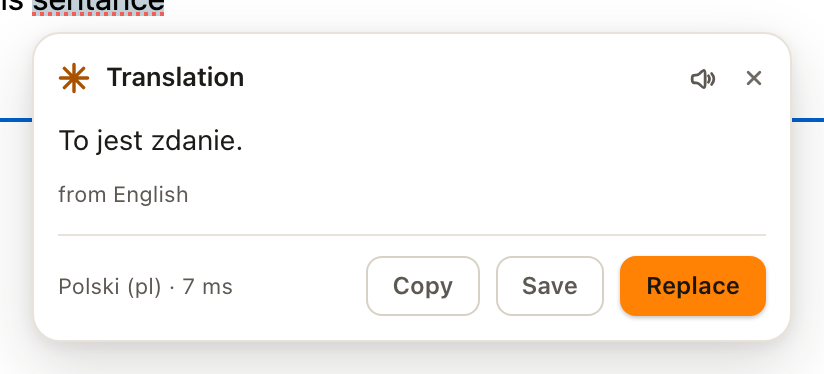
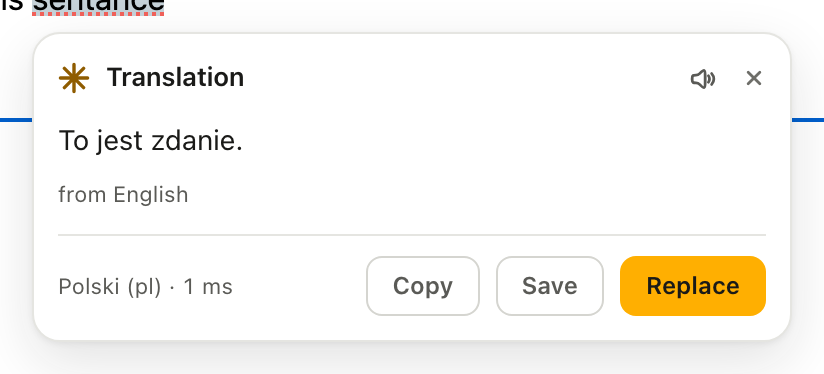
Gold accent, neutral surfaces, flatter controls
Accent moves to #ffaf01. White on it is 1.8:1, so accent surfaces keep
the gold and carry ink labels (9.4:1); accent text darkens to #8f5c00 on
white. The greys lose their warm cast — a warm ground plus a warm accent
reads as someone else's brand, and neutral lets the gold be the only
colour in the room.

Depth is now a single token: only the floating card has a shadow.
Primary buttons, switch knobs, segmented tiles and slider thumbs are flat,
and primary hover is a fill shift instead of a glow.

- tokens, cards, vocab page, popup, toolbar icon re-rendered
- contrast test updated for the gold (27 pairs)
- screenshots refreshed; suite green (232 checks)

Changed region(s): [[0.7282, 0.6765, 0.9405, 0.8529], [0.0607, 0.1765, 0.1214, 0.2353], [0.2124, 0.7353, 0.2427, 0.7941]]

diff --git a/shared/tokens.css b/shared/tokens.css
@@ -9,33 +9,34 @@
 
 :root,
 .ww-tokens {
-  /* brand — #ff8204 is the identity. White text on it is only 2.5:1, so an
-     accent *surface* carries ink instead (7.2:1), and accent *text* darkens
-     on the light ground. Both rules are asserted in contrast.test.mjs. */
-  --ww-accent: #ff8204;
-  --ww-accent-hi: #ff8204; /* filled surfaces: buttons, switch tracks */
-  --ww-accent-ink: #1b1611; /* label/mark/knob on an accent surface */
-  --ww-accent-soft: rgba(255, 130, 4, 0.14);
-  --ww-accent-text: #ff8204;
+  /* Brand — #ffaf01 is the identity. White text on it is 1.8:1, so an accent
+     *surface* carries ink instead (9.4:1), and accent *text* darkens on the
+     light ground. Every rule here is asserted in contrast.test.mjs. */
+  --ww-accent: #ffaf01;
+  --ww-accent-hi: #ffaf01; /* filled surfaces: buttons, switch tracks */
+  --ww-accent-ink: #1a1a18; /* label/mark/knob on an accent surface */
+  --ww-accent-soft: rgba(255, 175, 1, 0.14);
+  --ww-accent-text: #ffaf01;
   --ww-jade: #5cb87a;
   --ww-jade-soft: rgba(92, 184, 122, 0.15);
   --ww-danger: #e27d79;
   --ww-danger-soft: rgba(217, 83, 79, 0.15);
   --ww-amber: #e0a33a;
-  --ww-focus: #ff8204; /* 7.4:1 on the dark ground */
+  --ww-focus: #ffaf01; /* 10:1 on the dark ground */
   /* the knob is ink once the track turns accent; the track carries the state */
-  --ww-switch-thumb: #1b1611;
+  --ww-switch-thumb: #1a1a18;
 
-  /* surfaces — dark */
-  --ww-bg: #0c0c0b;
-  --ww-surface: #141413;
-  --ww-surface-2: #1c1c1a;
-  --ww-surface-3: #24231f;
-  --ww-border: #262521;
-  --ww-border-2: #33322c;
-  --ww-tx: #f2ede6;
-  --ww-tx-2: #aeaaa3;
-  --ww-tx-3: #8c8882;
+  /* Surfaces — neutral on purpose. A warm-grey ground plus a warm accent reads
+     like someone else's brand; neutral lets the gold be the only voice. */
+  --ww-bg: #0a0a0a;
+  --ww-surface: #131313;
+  --ww-surface-2: #1b1b1b;
+  --ww-surface-3: #232323;
+  --ww-border: #262626;
+  --ww-border-2: #343434;
+  --ww-tx: #f2f2f0;
+  --ww-tx-2: #aeaeaa;
+  --ww-tx-3: #8d8d89;
 
   /* type */
   --ww-font: -apple-system, BlinkMacSystemFont, "Segoe UI", Roboto,
@@ -67,9 +68,9 @@
   --ww-control-h: 32px;
   --ww-touch-h: 36px;
 
-  /* depth + motion */
-  --ww-shadow: 0 12px 32px rgba(0, 0, 0, 0.42), 0 2px 8px rgba(0, 0, 0, 0.28);
-  --ww-shadow-sm: 0 1px 2px rgba(0, 0, 0, 0.28);
+  /* depth + motion — one depth, for the floating card only. Controls are flat:
+     a button that floats reads as a different material from the field it sits in. */
+  --ww-shadow: 0 10px 28px rgba(0, 0, 0, 0.38), 0 1px 3px rgba(0, 0, 0, 0.24);
   --ww-ease: cubic-bezier(0.2, 0.8, 0.2, 1);
   --ww-dur: 140ms;
   --ww-dur-slow: 200ms;
@@ -80,65 +81,62 @@
 @media (prefers-color-scheme: light) {
   :root,
   .ww-tokens {
-    --ww-bg: #faf7f2;
+    --ww-bg: #f6f6f4;
     --ww-surface: #ffffff;
-    --ww-surface-2: #f4efe7;
-    --ww-surface-3: #e9e3d8;
-    --ww-border: #e8e2d9;
-    --ww-border-2: #d8d1c5;
-    --ww-tx: #1d1b18;
-    --ww-tx-2: #5c5852;
-    --ww-tx-3: #6f6a64;
+    --ww-surface-2: #f0f0ee;
+    --ww-surface-3: #e6e6e2;
+    --ww-border: #e5e5e1;
+    --ww-border-2: #d5d5d0;
+    --ww-tx: #1a1a18;
+    --ww-tx-2: #5a5a56;
+    --ww-tx-3: #6e6e69;
     --ww-jade: #2a7448;
     --ww-danger: #b3261e;
-    --ww-accent: #c25f00; /* graphics on white need ≥ 3:1 */
-    --ww-accent-soft: rgba(255, 130, 4, 0.12);
-    --ww-accent-text: #a95200; /* 5.4:1 on white, 5.0:1 on paper */
-    --ww-focus: #a95200;
-    --ww-shadow: 0 12px 32px rgba(35, 30, 22, 0.16), 0 2px 8px rgba(35, 30, 22, 0.08);
-    --ww-shadow-sm: 0 1px 2px rgba(35, 30, 22, 0.08);
+    --ww-accent: #b57a00; /* graphics on white need ≥ 3:1 */
+    --ww-accent-soft: rgba(255, 175, 1, 0.12);
+    --ww-accent-text: #8f5c00; /* 5.7:1 on white, 5.2:1 on the ground */
+    --ww-focus: #8f5c00;
+    --ww-shadow: 0 10px 28px rgba(24, 24, 22, 0.12), 0 1px 3px rgba(24, 24, 22, 0.06);
     color-scheme: light;
   }
 }
 
 :root[data-theme="dark"],
 .ww-tokens[data-theme="dark"] {
-  --ww-bg: #0c0c0b;
-  --ww-surface: #141413;
-  --ww-surface-2: #1c1c1a;
-  --ww-surface-3: #24231f;
-  --ww-border: #262521;
-  --ww-border-2: #33322c;
-  --ww-tx: #f2ede6;
-  --ww-tx-2: #aeaaa3;
-  --ww-tx-3: #8c8882;
-  --ww-accent: #ff8204;
-  --ww-accent-soft: rgba(255, 130, 4, 0.14);
-  --ww-accent-text: #ff8204;
-  --ww-focus: #ff8204;
-  --ww-shadow: 0 12px 32px rgba(0, 0, 0, 0.42), 0 2px 8px rgba(0, 0, 0, 0.28);
-  --ww-shadow-sm: 0 1px 2px rgba(0, 0, 0, 0.28);
+  --ww-bg: #0a0a0a;
+  --ww-surface: #131313;
+  --ww-surface-2: #1b1b1b;
+  --ww-surface-3: #232323;
+  --ww-border: #262626;
+  --ww-border-2: #343434;
+  --ww-tx: #f2f2f0;
+  --ww-tx-2: #aeaeaa;
+  --ww-tx-3: #8d8d89;
+  --ww-accent: #ffaf01;
+  --ww-accent-soft: rgba(255, 175, 1, 0.14);
+  --ww-accent-text: #ffaf01;
+  --ww-focus: #ffaf01;
+  --ww-shadow: 0 10px 28px rgba(0, 0, 0, 0.38), 0 1px 3px rgba(0, 0, 0, 0.24);
   color-scheme: dark;
 }
 
 :root[data-theme="light"],
 .ww-tokens[data-theme="light"] {
-  --ww-bg: #faf7f2;
+  --ww-bg: #f6f6f4;
   --ww-surface: #ffffff;
-  --ww-surface-2: #f4efe7;
-  --ww-surface-3: #e9e3d8;
-  --ww-border: #e8e2d9;
-  --ww-border-2: #d8d1c5;
-  --ww-tx: #1d1b18;
-  --ww-tx-2: #5c5852;
-  --ww-tx-3: #6f6a64;
+  --ww-surface-2: #f0f0ee;
+  --ww-surface-3: #e6e6e2;
+  --ww-border: #e5e5e1;
+  --ww-border-2: #d5d5d0;
+  --ww-tx: #1a1a18;
+  --ww-tx-2: #5a5a56;
+  --ww-tx-3: #6e6e69;
   --ww-jade: #2a7448;
   --ww-danger: #b3261e;
-  --ww-accent: #c25f00;
-  --ww-accent-soft: rgba(255, 130, 4, 0.12);
-  --ww-accent-text: #a95200;
-  --ww-focus: #a95200;
-  --ww-shadow: 0 12px 32px rgba(35, 30, 22, 0.16), 0 2px 8px rgba(35, 30, 22, 0.08);
-  --ww-shadow-sm: 0 1px 2px rgba(35, 30, 22, 0.08);
+  --ww-accent: #b57a00;
+  --ww-accent-soft: rgba(255, 175, 1, 0.12);
+  --ww-accent-text: #8f5c00;
+  --ww-focus: #8f5c00;
+  --ww-shadow: 0 10px 28px rgba(24, 24, 22, 0.12), 0 1px 3px rgba(24, 24, 22, 0.06);
   color-scheme: light;
 }

diff --git a/content/ui.js b/content/ui.js
@@ -41,13 +41,13 @@
   const FALLBACK_CSS = [
     '.ww-tokens{position:absolute;top:0;left:0;display:block;color:#f2ede6;font:13px/1.5 -apple-system,BlinkMacSystemFont,"Segoe UI",Roboto,sans-serif;text-align:left;direction:ltr}',
     '.ww-card{display:flex;flex-direction:column;width:380px;max-width:calc(100vw - 16px);max-height:320px;padding:12px;background:#141413;color:#f2ede6;border:1px solid #262521;border-radius:14px;box-shadow:0 12px 32px rgba(0,0,0,.42);pointer-events:auto;overflow:hidden}',
-    '.ww-head{display:flex;align-items:center;gap:8px}', '.ww-mark{color:#ff8204;display:inline-flex}',
+    '.ww-head{display:flex;align-items:center;gap:8px}', '.ww-mark{color:#ffaf01;display:inline-flex}',
     '.ww-title{flex:1;min-width:0;font-weight:600;white-space:nowrap;overflow:hidden;text-overflow:ellipsis}',
     '.ww-x{width:24px;height:24px;border:0;background:none;color:#8c8882;cursor:pointer}',
     '.ww-body{flex:1;min-height:0;overflow:auto;margin-top:10px}', '.ww-foot{display:flex;gap:8px;align-items:center;margin-top:12px;padding-top:10px;border-top:1px solid #262521}',
     '.ww-meta{flex:1;min-width:0;font-size:11px;color:#aeaaa3;white-space:nowrap;overflow:hidden;text-overflow:ellipsis}',
     '.ww-btn{height:30px;padding:0 12px;border-radius:8px;font:600 12px/1 inherit;cursor:pointer;border:1px solid transparent;background:none;color:#f2ede6}',
-    '.ww-btn-ghost{color:#aeaaa3;border-color:#33322c}', '.ww-btn-primary{background:#ff8204;color:#1b1611}',
+    '.ww-btn-ghost{color:#aeaaa3;border-color:#33322c}', '.ww-btn-primary{background:#ffaf01;color:#1a1a18}',
     '.ww-ins{background:rgba(92,184,122,.15);color:#5cb87a;text-decoration:underline;text-decoration-color:#5cb87a}',
     '.ww-del{background:rgba(217,83,79,.15);color:#e27d79;text-decoration:line-through;text-decoration-color:#e27d79}',
     '.ww-sub,.ww-msg{margin:0;color:#aeaaa3}', '.ww-sr{position:absolute;width:1px;height:1px;overflow:hidden;clip:rect(0 0 0 0);white-space:nowrap}', '.ww-skel{height:8px;border-radius:4px;background:#24231f;margin:0 0 8px}',

diff --git a/popup/popup.css b/popup/popup.css
@@ -153,7 +153,6 @@ body.is-off .mark {
   height: 14px;
   background: var(--ww-tx-3);
   border-radius: 50%;
-  box-shadow: var(--ww-shadow-sm);
   pointer-events: none;
   transition:
     transform var(--ww-dur) var(--ww-ease),
@@ -274,7 +273,6 @@ body.is-off .mark {
   color: var(--ww-tx);
   background: var(--ww-surface);
   border-color: var(--ww-border-2);
-  box-shadow: var(--ww-shadow-sm);
 }
 
 /* ── setup card ─────────────────────────────────────────────── */
@@ -580,7 +578,6 @@ body.is-off .mark {
   background: var(--ww-surface);
   border: 1px solid var(--ww-border-2);
   border-radius: 50%;
-  box-shadow: var(--ww-shadow-sm);
   appearance: none;
   transition: transform var(--ww-dur) var(--ww-ease);
 }

diff --git a/content/ui.css b/content/ui.css
@@ -390,15 +390,14 @@
 }
 
 .ww-btn-primary {
-  /* accent surface + ink label = 7.2:1 — the orange stays the orange */
+  /* accent surface + ink label = 9.4:1 — the gold stays the gold.
+     Flat on purpose: no lift, no glow. The fill is the emphasis. */
   background: var(--ww-accent-hi);
   color: var(--ww-accent-ink);
-  box-shadow: 0 1px 2px rgba(0, 0, 0, 0.24);
 }
 
 .ww-btn-primary:hover {
-  background: var(--ww-accent-hi);
-  box-shadow: 0 2px 10px rgba(255, 130, 4, 0.34);
+  background: color-mix(in srgb, var(--ww-accent-hi) 92%, #000000);
 }
 
 /* ── motion preferences ───────────────────────────────────────────────── */

diff --git a/vocab/vocab.css b/vocab/vocab.css
@@ -329,7 +329,6 @@ button {
   color: var(--ww-tx);
   background: var(--ww-surface);
   border-color: var(--ww-border-2);
-  box-shadow: var(--ww-shadow-sm);
 }
 
 .seg-count {

diff --git a/DESIGN.md b/DESIGN.md
@@ -11,9 +11,9 @@ duration or font in a component file.
 
 | Token | Meaning |
 |---|---|
-| `--ww-accent` | the brand orange, `#ff8204`; marks, dots, focus, graphics. Darkens to `#c25f00` in light mode, where graphics sit on white |
-| `--ww-accent-hi` / `--ww-accent-ink` | accent **surfaces** (filled buttons, switch tracks) and the ink that goes on them. Ink on `#ff8204` is 7.2:1; white would be 2.5:1 |
-| `--ww-accent-text` | accent used *as text*: `#ff8204` on the dark ground (7.4:1), `#a95200` on white (5.4:1) |
+| `--ww-accent` | the brand gold, `#ffaf01`; marks, dots, focus, graphics. Darkens to `#b57a00` in light mode, where graphics sit on white (3.7:1) |
+| `--ww-accent-hi` / `--ww-accent-ink` | accent **surfaces** (filled buttons, switch tracks) and the ink that goes on them. Ink on `#ffaf01` is 9.4:1; white would be 1.8:1 |
+| `--ww-accent-text` | accent used *as text*: `#ffaf01` on the dark ground (10:1), `#8f5c00` on white (5.7:1) |
 | `--ww-accent-soft` | 12–14% tint for selected pills, hint chips, hover washes |
 | `--ww-jade` / `--ww-danger` | insertions / deletions |
 | `--ww-bg`, `--ww-surface`, `--ww-surface-2`, `--ww-surface-3` | depth ladder |
@@ -23,17 +23,23 @@ duration or font in a component file.
 | `--ww-1 … --ww-6` | 4/8/12/16/20/24 spacing |
 | `--ww-r-sm`, `--ww-r`, `--ww-r-lg`, `--ww-r-pill` | 8/12/16/999 |
 | `--ww-control-h`, `--ww-touch-h` | 32px controls, 36px touch target |
-| `--ww-shadow`, `--ww-shadow-sm` | only two depths exist |
+| `--ww-shadow` | the single depth: the floating card. Controls are flat |
 | `--ww-ease`, `--ww-dur`, `--ww-dur-slow` | 140ms / 200ms, one easing curve |
 
 Dark is the default. Light follows `prefers-color-scheme` or an explicit
 `[data-theme]` on `:root` (extension pages) / `.ww-tokens` (shadow card).
 
 The accent is deliberately allowed to change *role* rather than get muddied:
-`#ff8204` is unchanged where it is a surface, ink is used where text sits on it,
+`#ffaf01` is unchanged where it is a surface, ink is used where text sits on it,
 and the accent darkens only when it is text or a hairline on white. Every pair
 below is asserted in `_wwtest/contrast.test.mjs`, so a future palette tweak
 cannot quietly break AA.
+
+The greys are neutral, not warm. A warm-grey ground plus a warm accent reads as
+someone else's brand; neutral surfaces let the gold be the only colour in the
+room. Depth is equally disciplined: only the floating card has a shadow. Buttons,
+switches, segmented tiles and slider thumbs are flat — a control that floats
+reads as a different material from the field it sits in.
 
 ## Type
 
@@ -46,7 +52,7 @@ instructions.
 
 - **Switch** — 36×20, real `<input type="checkbox">` + styled track. React to
   `change` only. Never re-toggle `.checked` in a click handler; that is the bug
-  that broke v1. The off track is neutral with a muted knob; the on track is
+  that broke v1. Flat, no shadow; the thumb is ink on the accent track. The off track is neutral with a muted knob; the on track is
   the accent with an ink knob (`--ww-switch-thumb`), because the accent is
   brighter than a white knob can survive on.
 - **Segmented control** — 2–3 equal segments, 32px tall, selected segment gets

diff --git a/README.md b/README.md
@@ -208,11 +208,14 @@ per-site pause, word-limit guard, shortcut and selection paths.
 
 ## Differences from v2.3
 
-- Palette: the accent is now `#ff8204`. Accent *surfaces* — primary buttons,
-  switch tracks, the toolbar icon — carry an ink label at 7.2:1 instead of white
-  at 2.5:1, and accent *text* darkens to `#a95200` on the light ground. Every
-  pair is asserted in `_wwtest/contrast.test.mjs`, so a palette tweak can't
-  quietly fall below AA.
+- Palette: the accent is now `#ffaf01`, and the neutrals are neutral rather than
+  warm — the cream ground was doing more of the brand's talking than the accent.
+  Accent *surfaces* — primary buttons, switch tracks, the toolbar icon — carry an
+  ink label at 9.4:1 instead of white at 1.8:1, and accent *text* darkens to
+  `#8f5c00` on the light ground. Every pair is asserted in
+  `_wwtest/contrast.test.mjs`, so a palette tweak can't quietly fall below AA.
+- Flatter UI: buttons are flat (no lift, no glow), switch knobs, segmented tiles
+  and slider thumbs lost their small shadows. One depth remains, for the card.
 - The popup, the in-page card and the toolbar icon are re-rendered in the new
   accent; the vocabulary page keeps its layout.
 
